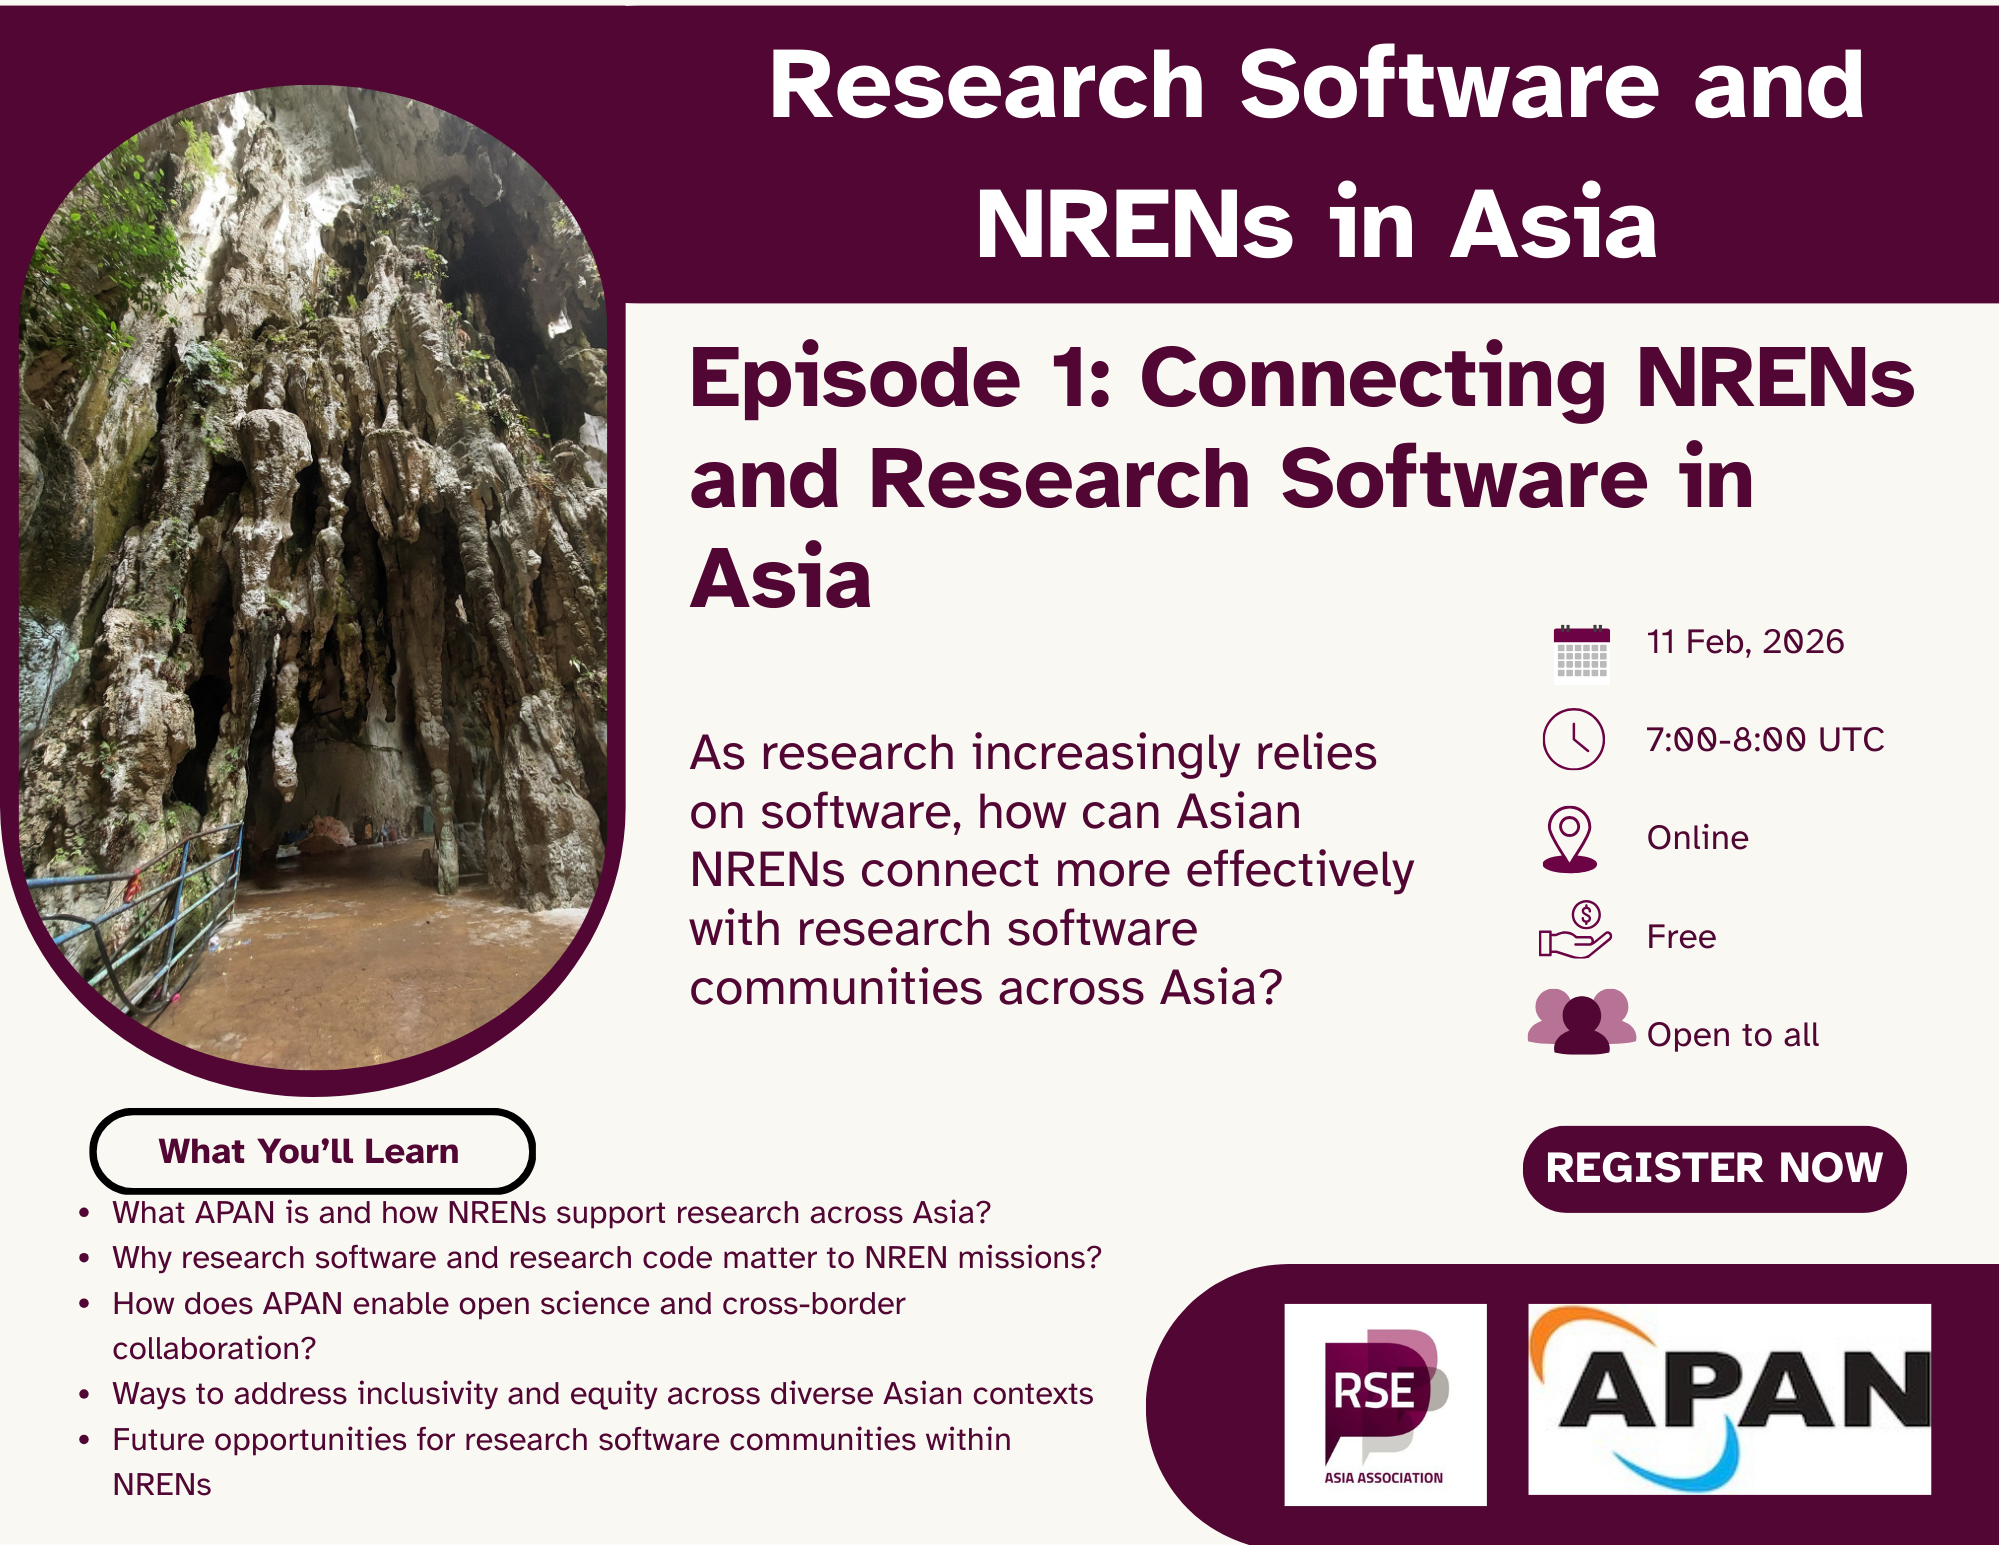
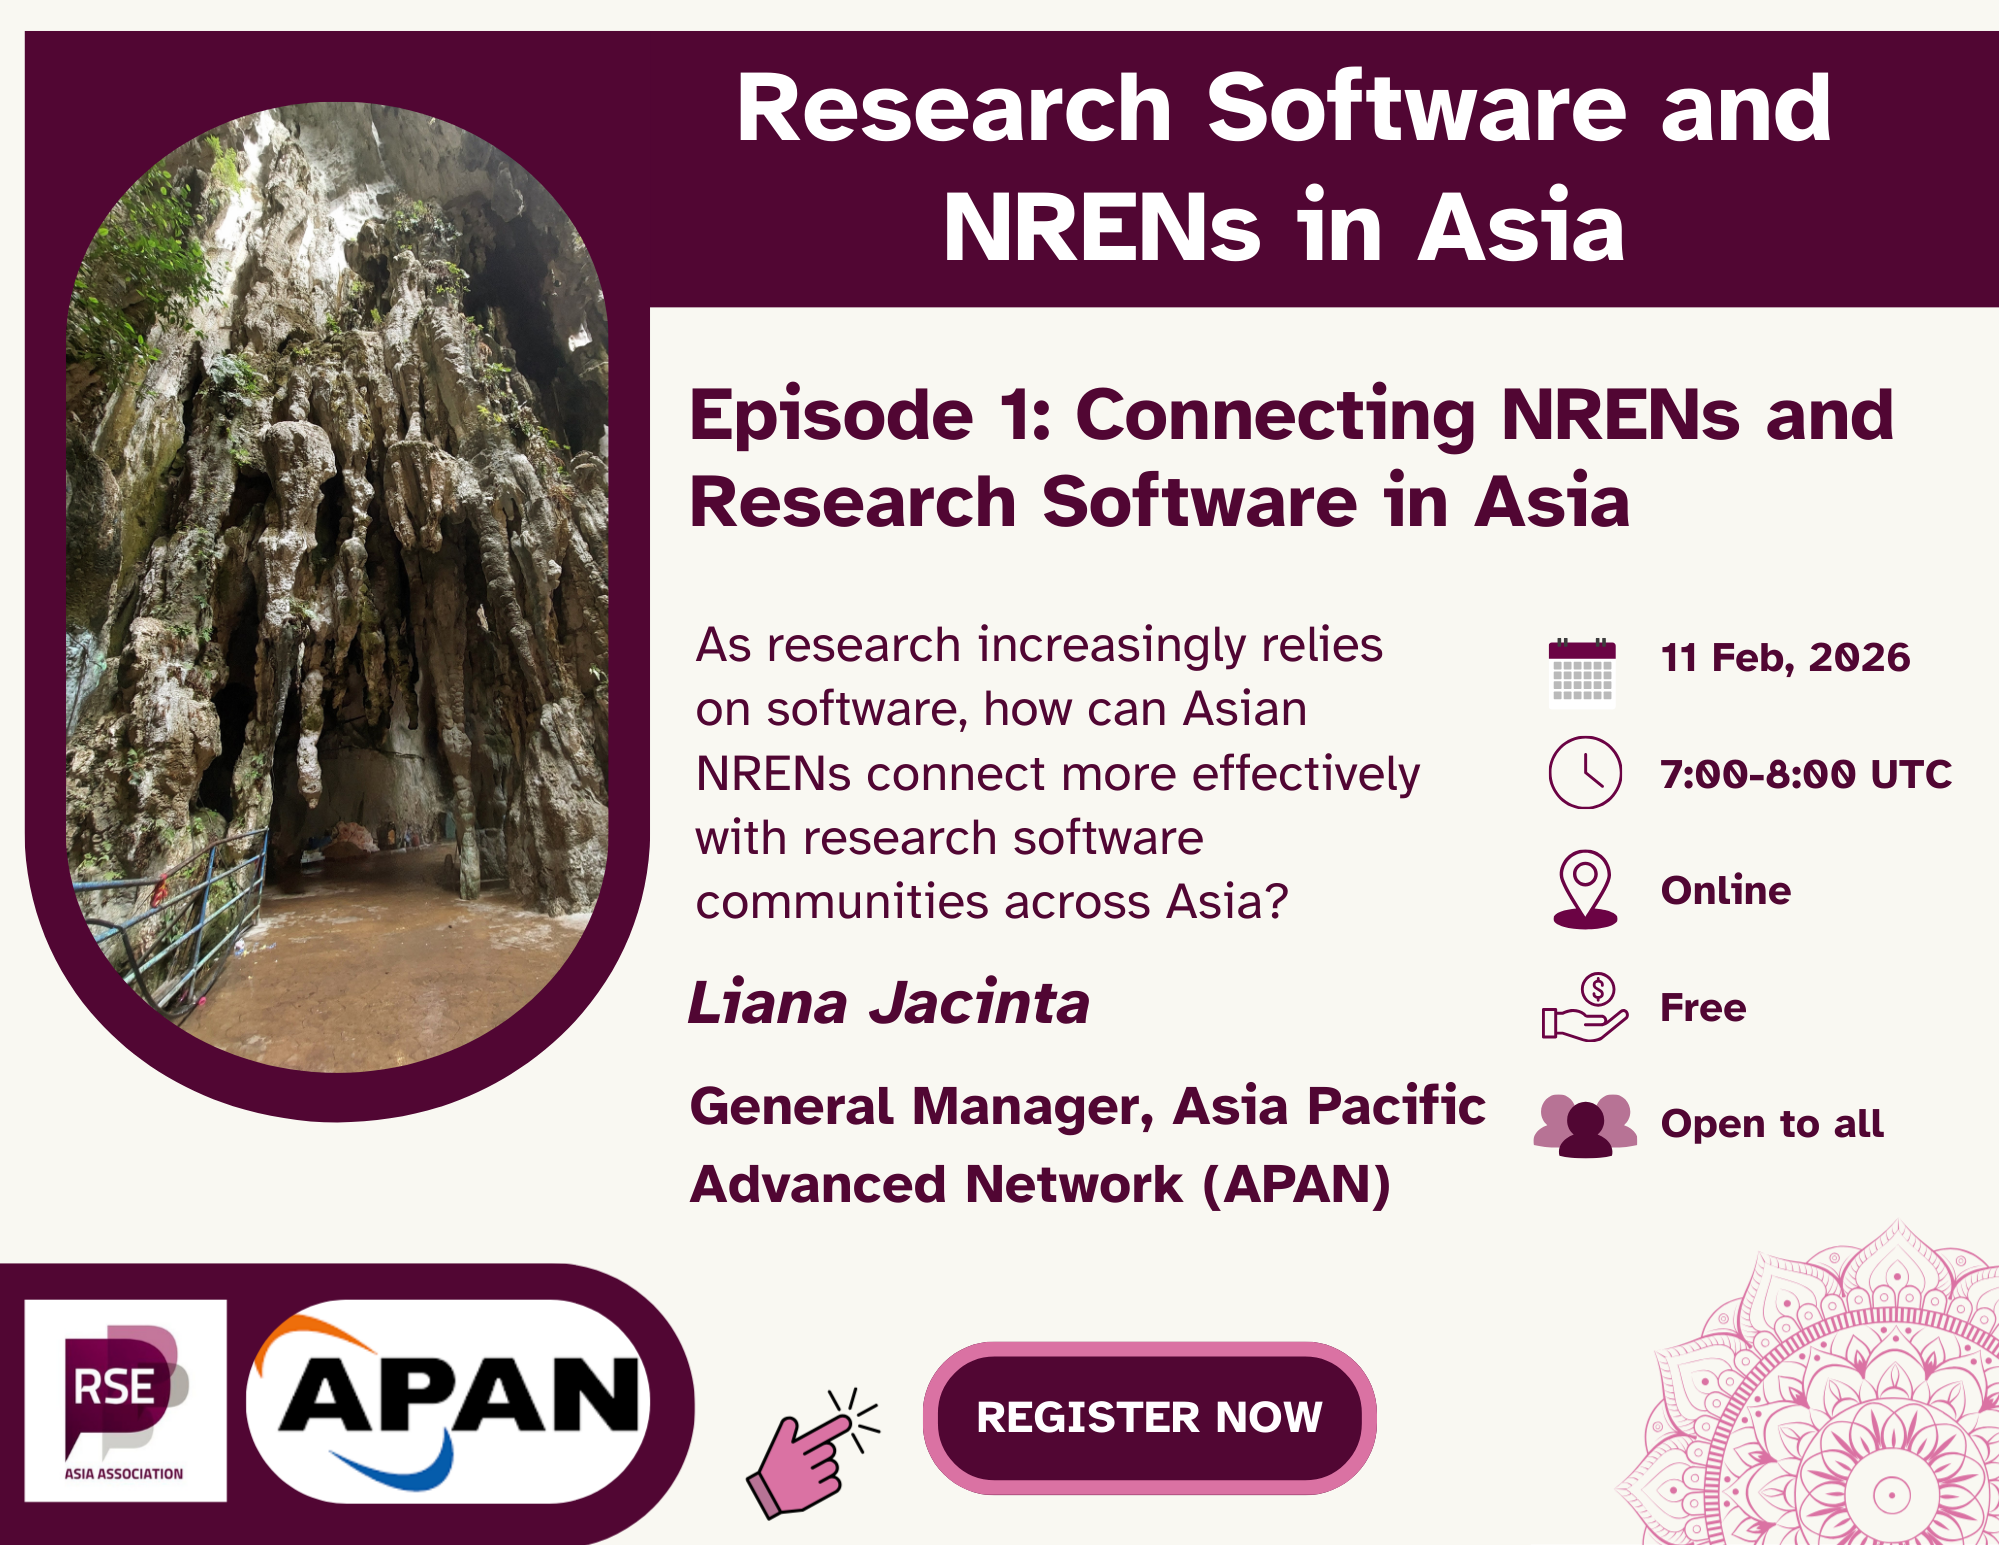
deploy: d147cd4c9f16ffd0ece49f6036e4d5da1ce33569

diff --git a/event/2026-02-10_ep-1-apan_conversation/index.html b/event/2026-02-10_ep-1-apan_conversation/index.html
@@ -1,7 +1,7 @@
 <!doctype html><html lang=en-uk><head><meta charset=utf-8><meta name=viewport content="width=device-width,initial-scale=1"><meta http-equiv=X-UA-Compatible content="IE=edge"><meta name=generator content="Hugo Blox Builder 5.9.7"><link rel=stylesheet href=/RSE_Asia/css/vendor-bundle.min.26c458e6907dc03073573976b7f4044e.css media=print onload='this.media="all"'><link rel=stylesheet href=https://cdn.jsdelivr.net/gh/jpswalsh/academicons@1.9.4/css/academicons.min.css integrity="sha512-IW0nhlW5MgNydsXJO40En2EoCkTTjZhI3yuODrZIc8cQ4h1XcF53PsqDHa09NqnkXuIe0Oiyyj171BqZFwISBw==" crossorigin=anonymous media=print onload='this.media="all"'><link rel=stylesheet href=https://cdn.jsdelivr.net/npm/leaflet@1.7.1/dist/leaflet.min.css integrity crossorigin=anonymous media=print onload='this.media="all"'><link rel=stylesheet href=/RSE_Asia/css/wowchemy.33dfdb4b951ccd8dbec927347d660901.css><link rel=stylesheet href=/RSE_Asia/css/libs/chroma/github-light.min.css title=hl-light media=print onload='this.media="all"'><link rel=stylesheet href=/RSE_Asia/css/libs/chroma/dracula.min.css title=hl-dark media=print onload='this.media="all"' disabled><meta name=author content="Saranjeet Kaur Bhogal"><meta name=description content="(Episode 1) Research Software and NRENs in Asia"><link rel=alternate hreflang=en-uk href=https://rse-asia.github.io/RSE_Asia/event/2026-02-10_ep-1-apan_conversation/><link rel=canonical href=https://rse-asia.github.io/RSE_Asia/event/2026-02-10_ep-1-apan_conversation/><link rel=manifest href=/RSE_Asia/manifest.webmanifest><link rel=icon type=image/png href=/RSE_Asia/media/icon_hu2190652719318244050.png><link rel=apple-touch-icon type=image/png href=/RSE_Asia/media/icon_hu6748282628746922101.png><meta name=theme-color content="#1565c0"><meta property="twitter:card" content="summary_large_image"><meta property="twitter:site" content="@GetResearchDev"><meta property="twitter:creator" content="@GetResearchDev"><meta property="twitter:image" content="https://rse-asia.github.io/RSE_Asia/event/2026-02-10_ep-1-apan_conversation/rs_nren_series_banner_episode_1.png"><meta property="og:type" content="website"><meta property="og:site_name" content="RSE Asia Association"><meta property="og:url" content="https://rse-asia.github.io/RSE_Asia/event/2026-02-10_ep-1-apan_conversation/"><meta property="og:title" content="Episode 1: Connecting NRENs and Research Software in Asia | RSE Asia Association"><meta property="og:description" content="(Episode 1) Research Software and NRENs in Asia"><meta property="og:image" content="https://rse-asia.github.io/RSE_Asia/event/2026-02-10_ep-1-apan_conversation/rs_nren_series_banner_episode_1.png"><meta property="og:locale" content="en-uk"><meta property="og:updated_time" content="2026-02-11T07:00:00+00:00"><link rel=alternate href=/RSE_Asia/event/2026-02-10_ep-1-apan_conversation/index.xml type=application/rss+xml title="RSE Asia Association"><title>Episode 1: Connecting NRENs and Research Software in Asia | RSE Asia Association</title></head><body id=top data-spy=scroll data-offset=70 data-target=#TableOfContents class=page-wrapper data-wc-page-id=fbc396af3878e866b6b3bfa4386de844><script src=/RSE_Asia/js/wowchemy-init.min.4fef3e534144e9903491f0cc6527eccd.js></script><aside class=search-modal id=search><div class=container><section class=search-header><div class="row no-gutters justify-content-between mb-3"><div class=col-6><h1>Search</h1></div><div class="col-6 col-search-close"><a class=js-search href=# aria-label=Close><i class="fas fa-times-circle text-muted" aria-hidden=true></i></a></div></div><div id=search-box><input name=q id=search-query placeholder=Search... autocapitalize=off autocomplete=off autocorrect=off spellcheck=false type=search class=form-control aria-label=Search...></div></section><section class=section-search-results><div id=search-hits></div></section></div></aside><div class="page-header header--fixed"><header><nav class="navbar navbar-expand-lg navbar-light compensate-for-scrollbar" id=navbar-main><div class=container-xl><div class="d-none d-lg-inline-flex"><a class=navbar-brand href=/RSE_Asia/>RSE Asia Association</a></div><button type=button class=navbar-toggler data-toggle=collapse data-target=#navbar-content aria-controls=navbar-content aria-expanded=false aria-label="Toggle navigation">
-<span><i class="fas fa-bars"></i></span></button><div class="navbar-brand-mobile-wrapper d-inline-flex d-lg-none"><a class=navbar-brand href=/RSE_Asia/>RSE Asia Association</a></div><div class="navbar-collapse main-menu-item collapse justify-content-end" id=navbar-content><ul class="navbar-nav d-md-inline-flex"><li class=nav-item><a class=nav-link href=/RSE_Asia/post><span>News</span></a></li><li class=nav-item><a class=nav-link href=/RSE_Asia/people><span>People</span></a></li><li class=nav-item><a class=nav-link href=/RSE_Asia/talk><span>Talks</span></a></li><li class=nav-item><a class=nav-link href=/RSE_Asia/blog><span>Blogs</span></a></li><li class=nav-item><a class=nav-link href=/RSE_Asia/membership><span>Get Involved</span></a></li><li class=nav-item><a class=nav-link href=/RSE_Asia/event><span>Events</span></a></li><li class=nav-item><a class=nav-link href=/RSE_Asia/publication><span>Publications</span></a></li><li class=nav-item><a class=nav-link href=/RSE_Asia/contact><span>Contact</span></a></li><li class=nav-item><a class=nav-link href=https://github.com/rse-asia/RSE_Asia target=_blank rel=noopener><span><i class='fab fa-github fa-2x'></i></span></a></li><li class=nav-item><a class=nav-link href=mailto:rse.asia.association@gmail.com><span><i class='fas fa-envelope fa-2x'></i></span></a></li><li class=nav-item><a class=nav-link href=https://www.linkedin.com/company/rse-asia-association/ target=_blank rel=noopener><span><i class='fab fa-linkedin fa-2x'></i></span></a></li></ul></div><ul class="nav-icons navbar-nav flex-row ml-auto d-flex pl-md-2"><li class=nav-item><a class="nav-link js-search" href=# aria-label=Search><i class="fas fa-search" aria-hidden=true></i></a></li></ul></div></nav></header></div><div class=page-body><div class="universal-wrapper pt-3"><h1>Episode 1: Connecting NRENs and Research Software in Asia</h1></div><div class=universal-wrapper><div class=row><div class=col-lg-12><div class=article-style><p><figure><div class="d-flex justify-content-center"><div class=w-100><img alt="APAN and Research Software" srcset="/RSE_Asia/event/2026-02-10_ep-1-apan_conversation/rs_nren_series_banner_episode_1_hu8265943013802525288.webp 400w,
-/RSE_Asia/event/2026-02-10_ep-1-apan_conversation/rs_nren_series_banner_episode_1_hu12437059026990142834.webp 760w,
-/RSE_Asia/event/2026-02-10_ep-1-apan_conversation/rs_nren_series_banner_episode_1_hu12868650795328289422.webp 1200w" src=/RSE_Asia/event/2026-02-10_ep-1-apan_conversation/rs_nren_series_banner_episode_1_hu8265943013802525288.webp width=760 height=587 loading=lazy data-zoomable></div></div></figure></p><p>In the first episode of the series &lsquo;Research Software and NRENs in Asia&rsquo;, we will explore the role of National Research and Education Networks (NRENs) in supporting research software development and sustainability in the Asian region.</p><p><strong>11 February 2026 @ 7:00 - 8:00 UTC <a href>(see in your local time)</a></strong></p><p><strong><a href>Register now</a></strong></p><h2 id=invited-guest>Invited Guest</h2><ul><li><p><strong><a href=https://www.linkedin.com/in/lianajacinta/ target=_blank rel=noopener>Liana Jacinta</a></strong>,
+<span><i class="fas fa-bars"></i></span></button><div class="navbar-brand-mobile-wrapper d-inline-flex d-lg-none"><a class=navbar-brand href=/RSE_Asia/>RSE Asia Association</a></div><div class="navbar-collapse main-menu-item collapse justify-content-end" id=navbar-content><ul class="navbar-nav d-md-inline-flex"><li class=nav-item><a class=nav-link href=/RSE_Asia/post><span>News</span></a></li><li class=nav-item><a class=nav-link href=/RSE_Asia/people><span>People</span></a></li><li class=nav-item><a class=nav-link href=/RSE_Asia/talk><span>Talks</span></a></li><li class=nav-item><a class=nav-link href=/RSE_Asia/blog><span>Blogs</span></a></li><li class=nav-item><a class=nav-link href=/RSE_Asia/membership><span>Get Involved</span></a></li><li class=nav-item><a class=nav-link href=/RSE_Asia/event><span>Events</span></a></li><li class=nav-item><a class=nav-link href=/RSE_Asia/publication><span>Publications</span></a></li><li class=nav-item><a class=nav-link href=/RSE_Asia/contact><span>Contact</span></a></li><li class=nav-item><a class=nav-link href=https://github.com/rse-asia/RSE_Asia target=_blank rel=noopener><span><i class='fab fa-github fa-2x'></i></span></a></li><li class=nav-item><a class=nav-link href=mailto:rse.asia.association@gmail.com><span><i class='fas fa-envelope fa-2x'></i></span></a></li><li class=nav-item><a class=nav-link href=https://www.linkedin.com/company/rse-asia-association/ target=_blank rel=noopener><span><i class='fab fa-linkedin fa-2x'></i></span></a></li></ul></div><ul class="nav-icons navbar-nav flex-row ml-auto d-flex pl-md-2"><li class=nav-item><a class="nav-link js-search" href=# aria-label=Search><i class="fas fa-search" aria-hidden=true></i></a></li></ul></div></nav></header></div><div class=page-body><div class="universal-wrapper pt-3"><h1>Episode 1: Connecting NRENs and Research Software in Asia</h1></div><div class=universal-wrapper><div class=row><div class=col-lg-12><div class=article-style><p><figure><div class="d-flex justify-content-center"><div class=w-100><img alt="APAN and Research Software" srcset="/RSE_Asia/event/2026-02-10_ep-1-apan_conversation/rs_nren_series_banner_episode_1_hu11509971838453649179.webp 400w,
+/RSE_Asia/event/2026-02-10_ep-1-apan_conversation/rs_nren_series_banner_episode_1_hu12756758813240871629.webp 760w,
+/RSE_Asia/event/2026-02-10_ep-1-apan_conversation/rs_nren_series_banner_episode_1_hu9163117206243820157.webp 1200w" src=/RSE_Asia/event/2026-02-10_ep-1-apan_conversation/rs_nren_series_banner_episode_1_hu11509971838453649179.webp width=760 height=587 loading=lazy data-zoomable></div></div></figure></p><p>In the first episode of the series &lsquo;Research Software and NRENs in Asia&rsquo;, we will explore the role of National Research and Education Networks (NRENs) in supporting research software development and sustainability in the Asian region.</p><p><strong>11 February 2026 @ 7:00 - 8:00 UTC <a href>(see in your local time)</a></strong></p><p><strong><a href>Register now</a></strong></p><h2 id=invited-guest>Invited Guest</h2><ul><li><p><strong><a href=https://www.linkedin.com/in/lianajacinta/ target=_blank rel=noopener>Liana Jacinta</a></strong>,
 General Manager, <em>Asia Pacific Advanced Network (APAN)</em>, Malaysia</p><p>Liana Jacinta is a senior executive specialising in industry–academic
 partnerships, large-scale conference delivery, and international stakeholder
 engagement. She provides operational leadership at Global Support Services,

diff --git a/event/index.html b/event/index.html
@@ -3,7 +3,7 @@
 </span><span class=middot-divider></span>
 <span>Online</span></div></div></div><div class=ml-3><a href=/RSE_Asia/event/2026-3-10_ep-2-open_sharing/><img src=/RSE_Asia/event/2026-3-10_ep-2-open_sharing/rs_nren_series_banner_episode_2_hu17666037820206838214.webp height=116 width=150 alt="Episode 2: Research Software and Environmental Research in Asia" loading=lazy></a></div></div><div class="media stream-item view-compact"><div class=media-body><div class="section-subheading article-title mb-0 mt-0"><a href=/RSE_Asia/event/2026-02-10_ep-1-apan_conversation/>Episode 1: Connecting NRENs and Research Software in Asia</a></div><a href=/RSE_Asia/event/2026-02-10_ep-1-apan_conversation/ class=summary-link><div class=article-style>(Episode 1) Research Software and NRENs in Asia</div></a><div class="stream-meta article-metadata"><div><span>Feb 11, 2026 7:00 AM &mdash; 8:00 AM
 </span><span class=middot-divider></span>
-<span>Online</span></div></div></div><div class=ml-3><a href=/RSE_Asia/event/2026-02-10_ep-1-apan_conversation/><img src=/RSE_Asia/event/2026-02-10_ep-1-apan_conversation/rs_nren_series_banner_episode_1_hu6219693848269365608.webp height=116 width=150 alt="Episode 1: Connecting NRENs and Research Software in Asia" loading=lazy></a></div></div></div></div><div class=row id=talk_list><div class=col-lg-2><h3>2025</h3></div><div class=col-lg-10><div class="media stream-item view-compact"><div class=media-body><div class="section-subheading article-title mb-0 mt-0"><a href=/RSE_Asia/event/2025-03-20-ep-6-rs-fund/>Episode 6: Funding for Research Software</a></div><a href=/RSE_Asia/event/2025-03-20-ep-6-rs-fund/ class=summary-link><div class=article-style>(Episode 6) Enabling Research Code through Open Science</div></a><div class="stream-meta article-metadata"><div><span>Mar 20, 2025 8:30 AM &mdash; 10:00 AM
+<span>Online</span></div></div></div><div class=ml-3><a href=/RSE_Asia/event/2026-02-10_ep-1-apan_conversation/><img src=/RSE_Asia/event/2026-02-10_ep-1-apan_conversation/rs_nren_series_banner_episode_1_hu1109269139390656132.webp height=116 width=150 alt="Episode 1: Connecting NRENs and Research Software in Asia" loading=lazy></a></div></div></div></div><div class=row id=talk_list><div class=col-lg-2><h3>2025</h3></div><div class=col-lg-10><div class="media stream-item view-compact"><div class=media-body><div class="section-subheading article-title mb-0 mt-0"><a href=/RSE_Asia/event/2025-03-20-ep-6-rs-fund/>Episode 6: Funding for Research Software</a></div><a href=/RSE_Asia/event/2025-03-20-ep-6-rs-fund/ class=summary-link><div class=article-style>(Episode 6) Enabling Research Code through Open Science</div></a><div class="stream-meta article-metadata"><div><span>Mar 20, 2025 8:30 AM &mdash; 10:00 AM
 </span><span class=middot-divider></span>
 <span>Online</span></div></div></div><div class=ml-3><a href=/RSE_Asia/event/2025-03-20-ep-6-rs-fund/><img src=/RSE_Asia/event/2025-03-20-ep-6-rs-fund/featured_hu3832022438316210586.webp height=37 width=150 alt="Episode 6: Funding for Research Software" loading=lazy></a></div></div><div class="media stream-item view-compact"><div class=media-body><div class="section-subheading article-title mb-0 mt-0"><a href=/RSE_Asia/event/2025-02-20_ep-5-testing_research_code/>Episode 5: Testing Research Code</a></div><a href=/RSE_Asia/event/2025-02-20_ep-5-testing_research_code/ class=summary-link><div class=article-style>(Episode 5) Enabling Research Code through Open Science</div></a><div class="stream-meta article-metadata"><div><span>Feb 3, 2025 8:30 AM &mdash; 10:00 AM
 </span><span class=middot-divider></span>
